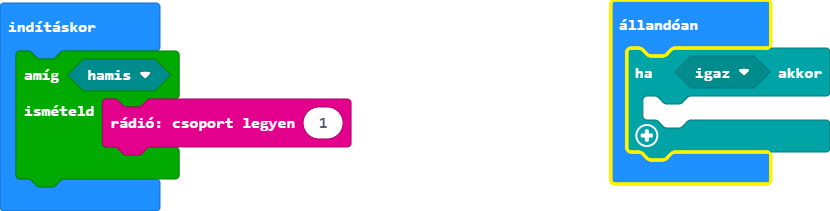
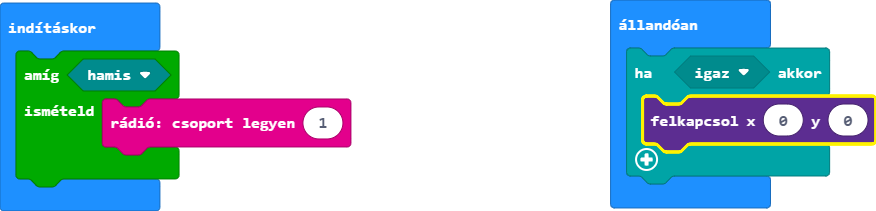
main.blocks, main.ts frissítése

diff --git a/main.ts b/main.ts
@@ -3,6 +3,6 @@ while (false) {
 }
 basic.forever(function () {
     if (true) {
-    	
+        led.plot(0, 0)
     }
 })
